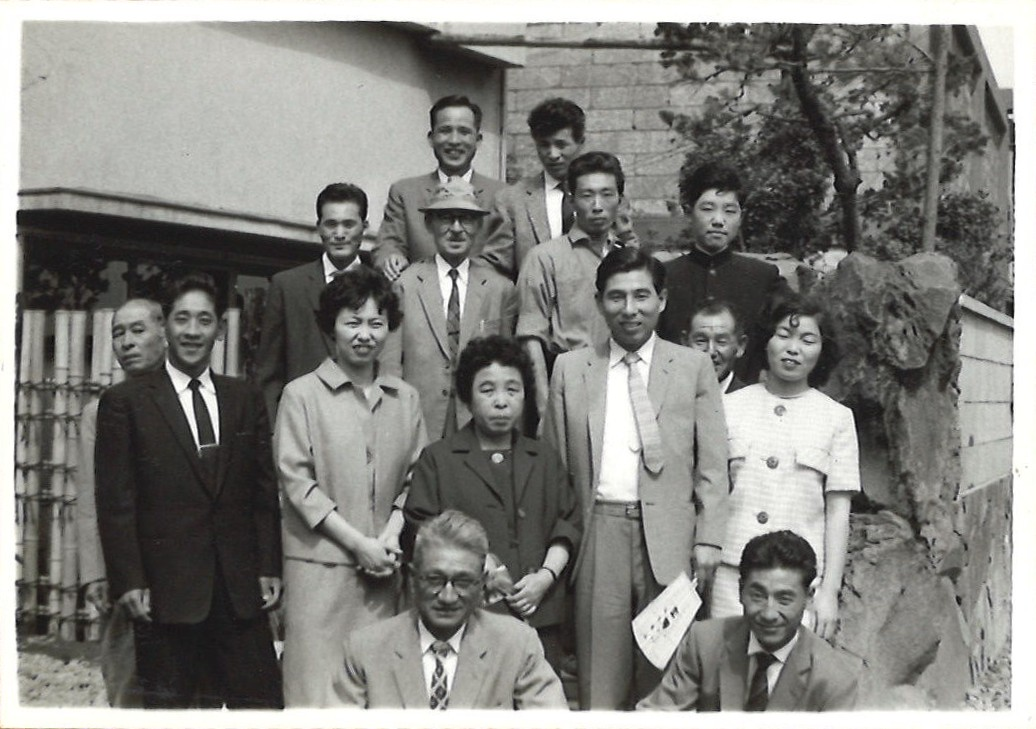
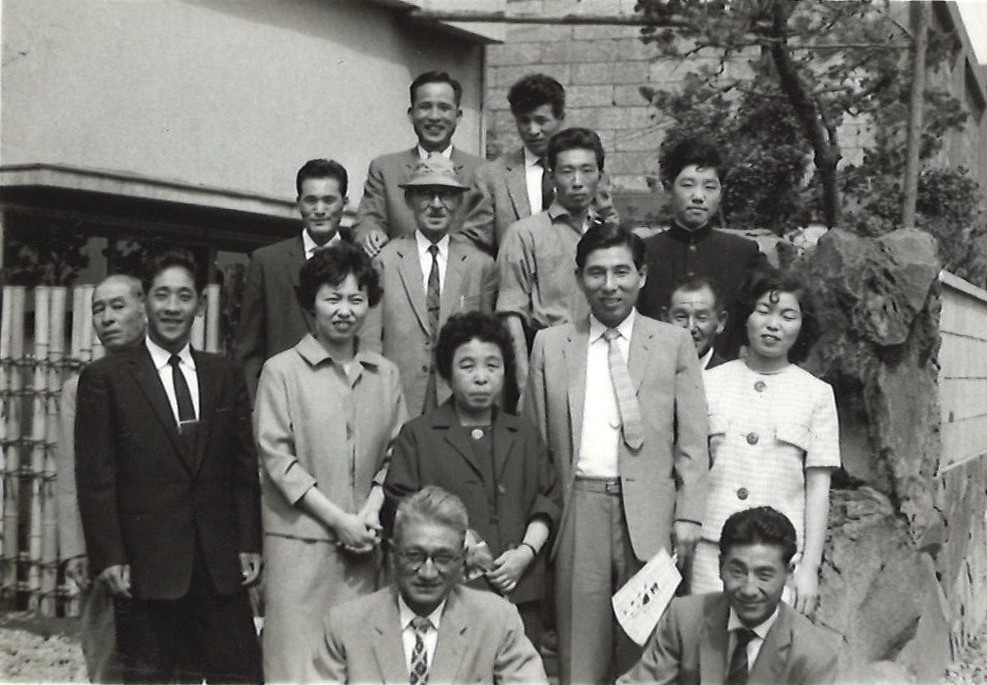
ふち除去済み画像に差し替え・backgroundSizeを100%（cover）に戻す

diff --git a/components/HeroSlideshow.tsx b/components/HeroSlideshow.tsx
@@ -24,8 +24,6 @@ export default function HeroSlideshow() {
           className="absolute inset-0 bg-cover bg-center transition-opacity duration-[2500ms]"
           style={{
             backgroundImage: `url(${src})`,
-            backgroundSize: i === 1 ? "120%" : "cover",
-            backgroundRepeat: "no-repeat",
             opacity: i === current ? 1 : 0,
             filter: "sepia(55%) contrast(110%) brightness(82%) saturate(65%)",
           }}
